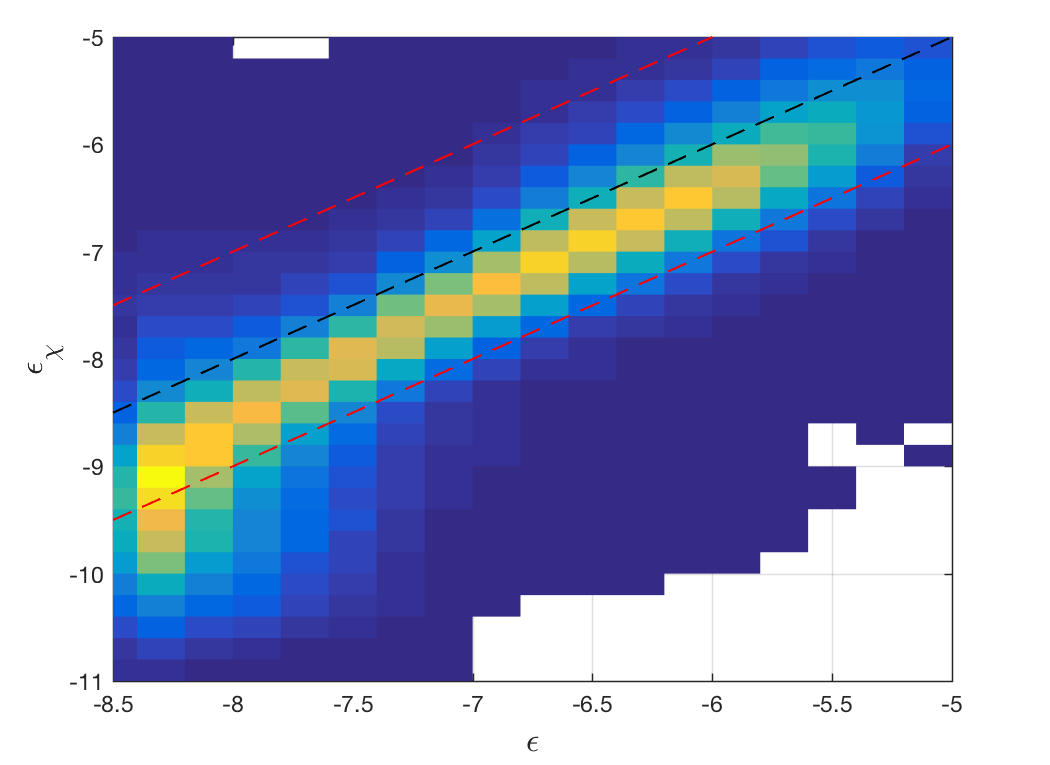
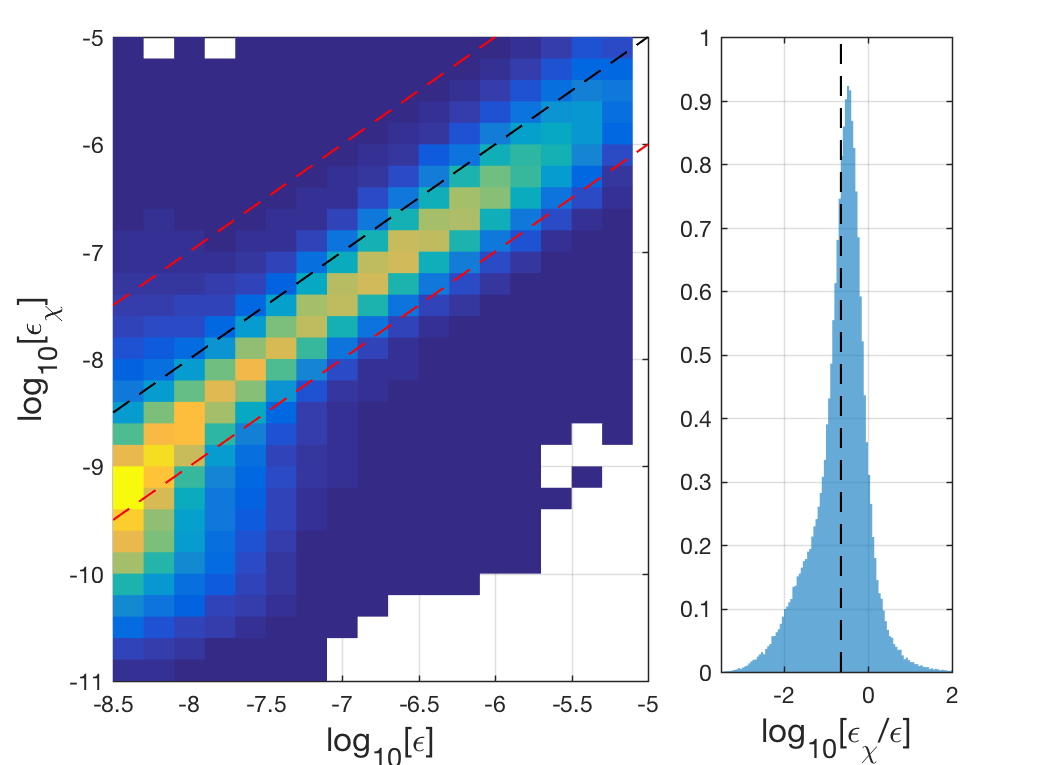
update figure and notes

diff --git a/Andy_Pickering/EQ08/mfiles/plot_epschi_vs_eps_cham_eq08.m b/Andy_Pickering/EQ08/mfiles/plot_epschi_vs_eps_cham_eq08.m
@@ -10,11 +10,11 @@
 %~~~~~~~~~~~~~~~~~~~~~~~~~~~~~~
 %%
 
-clear ; close all
+clear ; %close all
 
 Params.gamma    = 0.2;
 Params.fmax     = 10  ;
-Params.z_smooth = 1 ;
+Params.z_smooth = 10 ;
 Params.resp_corr= 0  ;
 Params.fc       = 99 ;
 
@@ -22,8 +22,8 @@ dz = 2 ;
 cnums_to_get = 200:2700;
 
 screen_chi= 1 ;
-screen_ml = 0 ;
-Pmin      = 0 ;
+screen_ml = 1 ;
+Pmin      = 20 ;
 
 addpath /Users/Andy/Cruises_Research/Analysis/Andy_Pickering/gen_mfiles/
 addpath /Users/Andy/Cruises_Research/mixingsoftware/CTD_Chipod/mfiles/
@@ -38,11 +38,12 @@ end
 
 eps_chi = cham.chi .* cham.N2 / 2 / 0.2 ./ (cham.Tz.^2);
 
-figure(1);clf
+figure%(1);clf
 agutwocolumn(0.6)
 wysiwyg
 
-histogram2( real(log10(cham.eps)), real(log10(eps_chi)), 'DisplayStyle','tile','EdgeColor','none')
+subplot(1,3,[1 2])
+histogram2( real(log10(cham.eps)), real(log10(eps_chi)), 'DisplayStyle','tile','EdgeColor','none','XBinEdges',[-8.5:0.2:-5],'YBinEdges',[-11:0.2:-5])
 xlim([-8.5 -5])
 ylim([-11 -5])
 xvec = linspace(-8.5,-5,100);
@@ -50,11 +51,21 @@ hold on
 plot(xvec,xvec,'k--')
 plot(xvec,xvec+1,'r--')
 plot(xvec,xvec-1,'r--')
-xlabel('\epsilon','fontsize',16)
-ylabel('\epsilon_{\chi}','fontsize',16)
+xlabel('log_{10}[\epsilon]','fontsize',16)
+ylabel('log_{10}[\epsilon_{\chi}]','fontsize',16)
+
+
+subplot(1,3,3)
+histogram( real(log10( eps_chi(:) ./ cham.eps(:))),'edgecolor','none','Normalization','pdf')
+grid on
+freqline( nanmean(real(log10( eps_chi(:) ./ cham.eps(:)))))
+xlim([-3.5 2])
+xlabel('log_{10}[\epsilon_{\chi}/\epsilon]','fontsize',16)
 
 eq08_patches_paths
 figname = [project_short '_epschi_vs_eps']
 print(fullfile(fig_dir, figname), '-dpng')
+
+
 
 %%
